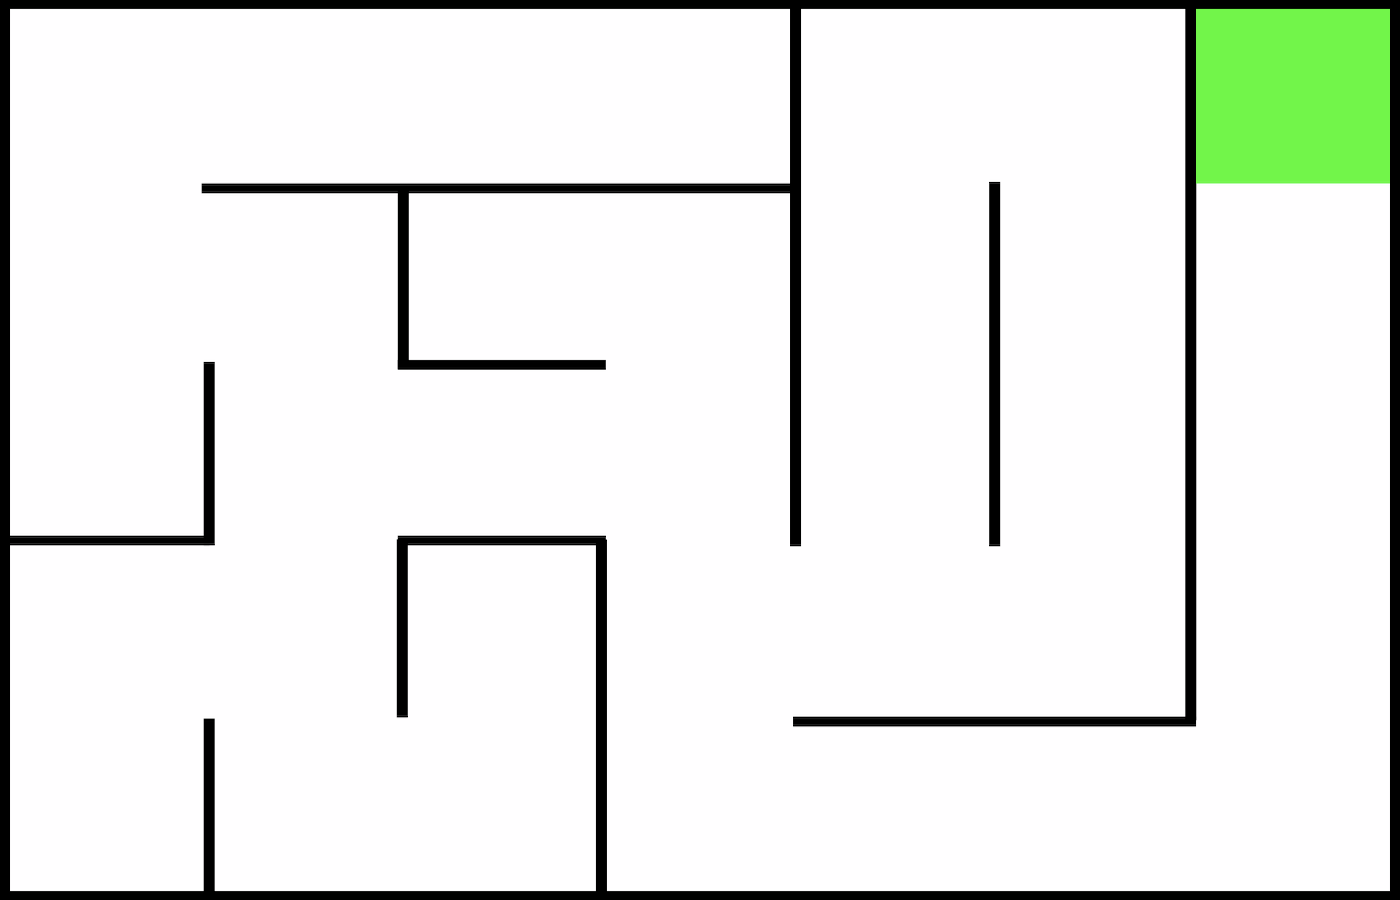
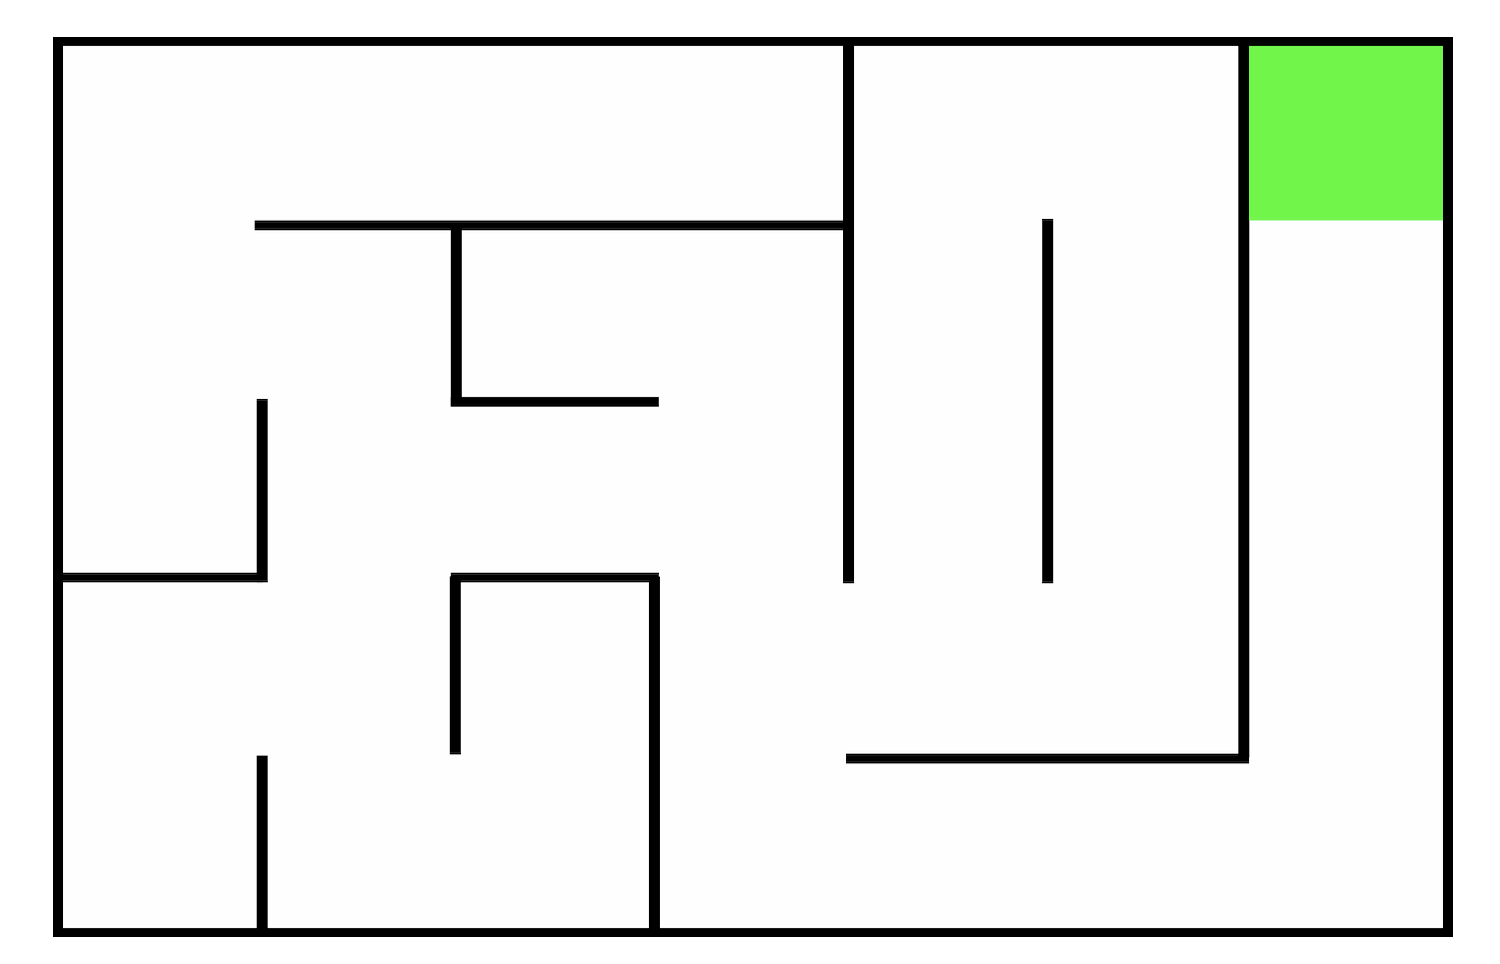
HELLO AIMING WORKS

Changed region(s): [[0.0, 0.0, 1.0, 1.0], [0.6757, 0.1867, 0.7371, 0.6222]]

diff --git a/main.py b/main.py
@@ -23,8 +23,12 @@ Width, Height = 1400, 900
 Window = pygame.display.set_mode((Width, Height))
 pygame.display.set_caption("qwack")
 
+
 # move to Level.py
-#duck_image = pygame.image.load('duck.png')  # reference for turret later
+# duck_image = pygame.image.load('duck.png')  # reference for turret later
+
+def scale_bg(image, window_width, window_height):
+    return pygame.transform.scale(image, (window_width, window_height))
 
 
 #
@@ -59,11 +63,15 @@ def level3():
 
 # change screen size
 def screensmall():
+    global size
+    size = 'small'
     Width, Height = 1200, 836
     Window = pygame.display.set_mode((Width, Height))
 
 
 def screenbig():
+    global size
+    size = 'big'
     Width, Height = 1400, 900
     Window = pygame.display.set_mode((Width, Height))
     pygame.display.set_caption("qwack")
@@ -87,22 +95,22 @@ def loadLevel():
 
 # initializing buttons
 
-buttons = [
-    Button("Level 1", 300, 200, 200, 50, level1, is_level=True),
-    Button("Level 2", 300, 300, 200, 50, level2, is_level=True),
-    Button("Level 3", 300, 400, 200, 50, level3, is_level=True),
-    Button('small', 400, 100, 200, 50, screensmall, is_level=False),
-    Button('big', 700, 100, 200, 50, screenbig, is_level=False)
-]
+buttons = [Button("Level 1", 300, 200, 200, 50, level1, is_level=True),
+           Button("Level 2", 300, 300, 200, 50, level2, is_level=True),
+           Button("Level 3", 300, 400, 200, 50, level3, is_level=True),
+           Button('small', 400, 100, 200, 50, screensmall, is_level=False),
+           Button('big', 700, 100, 200, 50, screenbig, is_level=False)]
 
 #
 # -----------------------------------------------------------------------------------------------------------------
 #
 
-#fonts
+# fonts
 FONT = pygame.font.SysFont("arial", 30)
 FONT2 = pygame.font.Font(None, 24)  # None means default font
-#test
+
+
+# test
 
 #
 # -----------------------------------------------------------------------------------------------------------------
@@ -133,7 +141,7 @@ levela = None
 def main():
     clock = pygame.time.Clock()  # Initialize a clock to manage the frame rate
     run = True
-    bullet = Bullet(0, 100, 100, 1, 1)
+
     gamemode = 0
     while run:
         if gamemode <= 0:  # in the main menu
@@ -150,30 +158,68 @@ def main():
                         if button.is_clicked(event):  # is it?
                             if button.is_level:
                                 gamemode = 1
-                            button.callback()  # if button is pressed, button.callback (from button class, callback is an attribute/property)
-                            '''in this case, we defined multiple buttons that should execute different things (levels) but since were using
-                            the same button press checker function, its hard to determine which function to execute IF the button is pressed.
-                            Thus, we use a callback attribute in the Button class. (level1, level2... during initialization above)
-                            This attribute stores a reference to the function that should be executed when the button is pressed..
+                            button.callback()  # if button is pressed, button.callback (from button class,
+                            # callback is an attribute/property)
+                            '''in this case, we defined multiple buttons that should execute different things (
+                            levels) but since were using
+                            the same button press checker function, its hard to determine which function to execute 
+                            IF the button is pressed.
+                            Thus, we use a callback attribute in the Button class. (level1, level2... during 
+                            initialization above)
+                            This attribute stores a reference to the function that should be executed when the button 
+                            is pressed..
                             '''
                             button.tick = 20  # set the greyed out timer
 
-        if gamemode == 1:  # in the game
-            level.draw(Window)
-
         mouse_pos = pygame.mouse.get_pos()
+        if gamemode == 1:  # in the game
+            speedmultiplier = 10  # can change!!
+            level.draw(Window)
+            # calculate dx and dy based on mouse pos vs player pos
+            for event in pygame.event.get():  # Process all events in the event queue
+                if event.type == pygame.QUIT:  # If the close button is clicked
+                    run = False
+                    break
+                if event.type == pygame.MOUSEBUTTONDOWN:  # only if mouse button down calc angle and launch bullet
+                    playerx, playery = level.playerX, level.playerY
+                    mousex, mousey = mouse_pos[0], mouse_pos[1]
+
+                    # Calculate differences in x and y coordinates
+                    differencex, differencey = mousex - playerx, mousey - playery
+
+                    # Normalize the difference to ensure constant bullet speed
+                    # Check if the mouse is straight to the right or left or up/down
+                    if differencex == 0:  # Straight up or down
+                        differencex = 0
+                        differencey = 1 if differencey > 0 else -1  # Up or down direction
+                    elif differencey == 0:  # Straight left or right
+                        differencey = 0
+                        differencex = 1 if differencex > 0 else -1  # Right or left direction
+                    else:
+                        # Normalize the differences
+                        length = math.sqrt(differencex ** 2 + differencey ** 2)
+                        differencex /= length
+                        differencey /= length
+
+                    # this wouldve been my idea but it isnt copatible with the current thing
+                    bullet = Bullet(0, playerx, playery, differencex, differencey)  # trying here to get bullet
+                    # to launch at correct angle relative to where the mouseis aiiming, differencex and y are set to ≥1
+                    # so speed is constant and theyre relative to ach other
+                    Level.launch(level, speedmultiplier * differencex, speedmultiplier * differencey)
+
         if gamemode <= 0:
             for button in buttons:
                 if button.tick == 0:  # when tick = 0, it means button not pressed. so it colors it grey for hover
                     button.is_hovered(mouse_pos)  # Update button hover state based on mouse position
                     button.draw(Window)
                 else:
-                    button.tick -= 1  # tick isnt 0 so it counts down a timer until it becomes 0 to resume the normal color.
+                    button.tick -= 1  # tick isnt 0 so it counts down a timer until it becomes 0 to resume the normal
+                    # color.
                     button.color = (100, 100, 100)  # temporary darker button to confirm you clicked button
                     button.draw(Window)
+            rendertext()  # Render main menu text and subtitle. usually do this last otherwise might cause  #  #   #
+            # artifacts/flickering
 
-        if gamemode <= 0:
-            rendertext()  # Render main menu text and subtitle. usually do this last otherwise might cause artifacts/flickering
         pygame.display.flip()  # Update the display with the drawn frame
         clock.tick(60)  # fps limit of 60 FPS so you dont burn your customers laptop
 
@@ -184,7 +230,8 @@ def main():
 # -----------------------------------------------------------------------------------------------------------------
 #
 
-# checks if run directly from this file (main), not when this is imported to another file, dont wanna run this window thingy
+# checks if run directly from this file (main), not when this is imported to another file, dont wanna run this window
+# thingy
 # when imported from another file ig
 if __name__ == "__main__":
     main()

diff --git a/Level.py b/Level.py
@@ -35,17 +35,18 @@ class Level:
         self.playerX = int(lst[1])
         self.playerY = int(lst[2])
         bullet_data = lst[3]
-        self.bullets = [Bullet(i, self.playerX, self.playerY, 0, 0) for i in range(7) for
-                        j in range(int(bullet_data[i]))]
+        self.bullets = [Bullet(i, self.playerX, self.playerY, 0, 0) for i in range(7) for j in
+                        range(int(bullet_data[i]))]
         self.bullet_poof = int(lst[4])
         obstacles = lst[5].split('_')
         self.obstacle_data = []
         for i in range(len(obstacles) // 3):
             self.obstacle_data.append([obstacles[i * 3], obstacles[i * 3 + 1], obstacles[i * 3 + 2]])
 
-        # testing - delete later
-        self.bullets[9].speed_x = self.bullets[9].SPEED
-        self.bullets[9].speed_y = self.bullets[9].SPEED
+        # testing - delete later  # self.bullets[9].speed_x = self.bullets[9].SPEED  # self.bullets[9].speed_y =   #
+        # self.bullets[9].SPEED
+
+    # self.bullets[9].speed_x, self.bullets[9].speed_y = 4, 9 #i have no idea what SPEED does or what bullets list is
 
     """ move to main.py
     def printData(self):
@@ -65,14 +66,21 @@ class Level:
     def draw(self, screen):
 
         # car = pygame.transform.scale(self.bg, (Width, Height))
-        car = pygame.transform.scale(self.bg, (1400, 900)) #assume large screen for now
+        car = pygame.transform.scale(self.bg, (1400, 900))  # assume large screen for now
         screen.blit(car, (0, 0))
-        level_data = Level(self.level_num)
         pygame.draw.circle(screen, 'grey', [int(self.playerX), int(self.playerY)], 30)
 
+        #resizing window correctly in levels, size = input variable in function
+        '''  if size == 'big':
+                    car = pygame.transform.scale(self.bg, (1400, 900))  # assume large screen for now
+                    screen.blit(car, (0, 0))
+                else:
+                    car = pygame.transform.scale(self.bg, (1200, 836))  # assume large screen for now
+                    screen.blit(car, (0, 0))
+        '''
         mousx, mousy = pygame.mouse.get_pos()
-        locplayerx = int(level_data.playerX)
-        locplayery = int(level_data.playerY)
+        locplayerx = int(self.playerX)
+        locplayery = int(self.playerY)
 
         angle = math.degrees(math.atan2(mousy - locplayery, mousx - locplayerx))
         circle_center = (locplayerx, locplayery)
@@ -83,3 +91,5 @@ class Level:
             bullet.move(screen)
             bullet.draw(screen)
 
+    def launch(self, dx, dy):
+        self.bullets[9].speed_x, self.bullets[9].speed_y = dx, dy

diff --git a/Bullet.py b/Bullet.py
@@ -8,8 +8,8 @@ import math
 
 
 class Bullet:
-    SPEED = 3
-    RADIUS = 20
+    #SPEED = 3 useless attribute?
+    RADIUS = 10
     norm = (169,169,169)
     pyr = (239,122,53)
     hyd = (0, 191, 255)
@@ -23,32 +23,36 @@ class Bullet:
     colour: tuple
     x: int
     y: int
-    speed_x: int
-    speed_y: int
+    speed_x: float
+    speed_y: float
 
     def __init__(self, element, x, y, dx, dy):
         self.element = element
         self.colour = self.COLOURS[element]
         self.x = x
         self.y = y
-        self.speed_x = self.SPEED * dx
-        self.speed_y = self.SPEED * dy
+        self.speed_x = dx
+        self.speed_y = dy
 
+
+    #funky if added some amount of quirky randomness (the current amount of randomness is so the bullet doesnt form loops as i've tested)
+    #the randomness i suggest above could be a level specific property where the bounces are chaotic
     def move(self, screen):
+        rx, ry =random.uniform(0.5, 1), random.uniform(0.5, 1) #change to like 20 50 for fun
         # Change direction if collides with wall
         if self.collides(screen, self.x + self.speed_x, self.y):
-            self.speed_x = -self.speed_x  # Reverse direction x
+            self.speed_x =- (self.speed_x + rx)# Reverse direction x
         if self.collides(screen, self.x, self.y + self.speed_y):
-            self.speed_y = -self.speed_y  # Reverse direction y
+            self.speed_y = -(self.speed_y +ry) # Reverse direction y
 
         self.x += self.speed_x
         self.y += self.speed_y
 
     def collides(self, screen, new_x, new_y):
-        for i in range(self.RADIUS * 2):
-            for j in range(self.RADIUS * 2):
+        for i in range(int(self.RADIUS/3), self.RADIUS):
+            for j in range(int(self.RADIUS/3), self.RADIUS): #o(n^2) algorithm inneficient :nerd:
                 if (math.sqrt((self.RADIUS - i) ** 2 + (self.RADIUS - j) ** 2)) <= self.RADIUS:
-                    clr = screen.get_at((new_x - self.RADIUS + i, new_y - self.RADIUS + j))
+                    clr = screen.get_at((round(new_x - self.RADIUS + i), round(new_y - self.RADIUS + j)))
                     if clr == (0, 0, 0):  # Check if the color is black
                         return True
         return False
